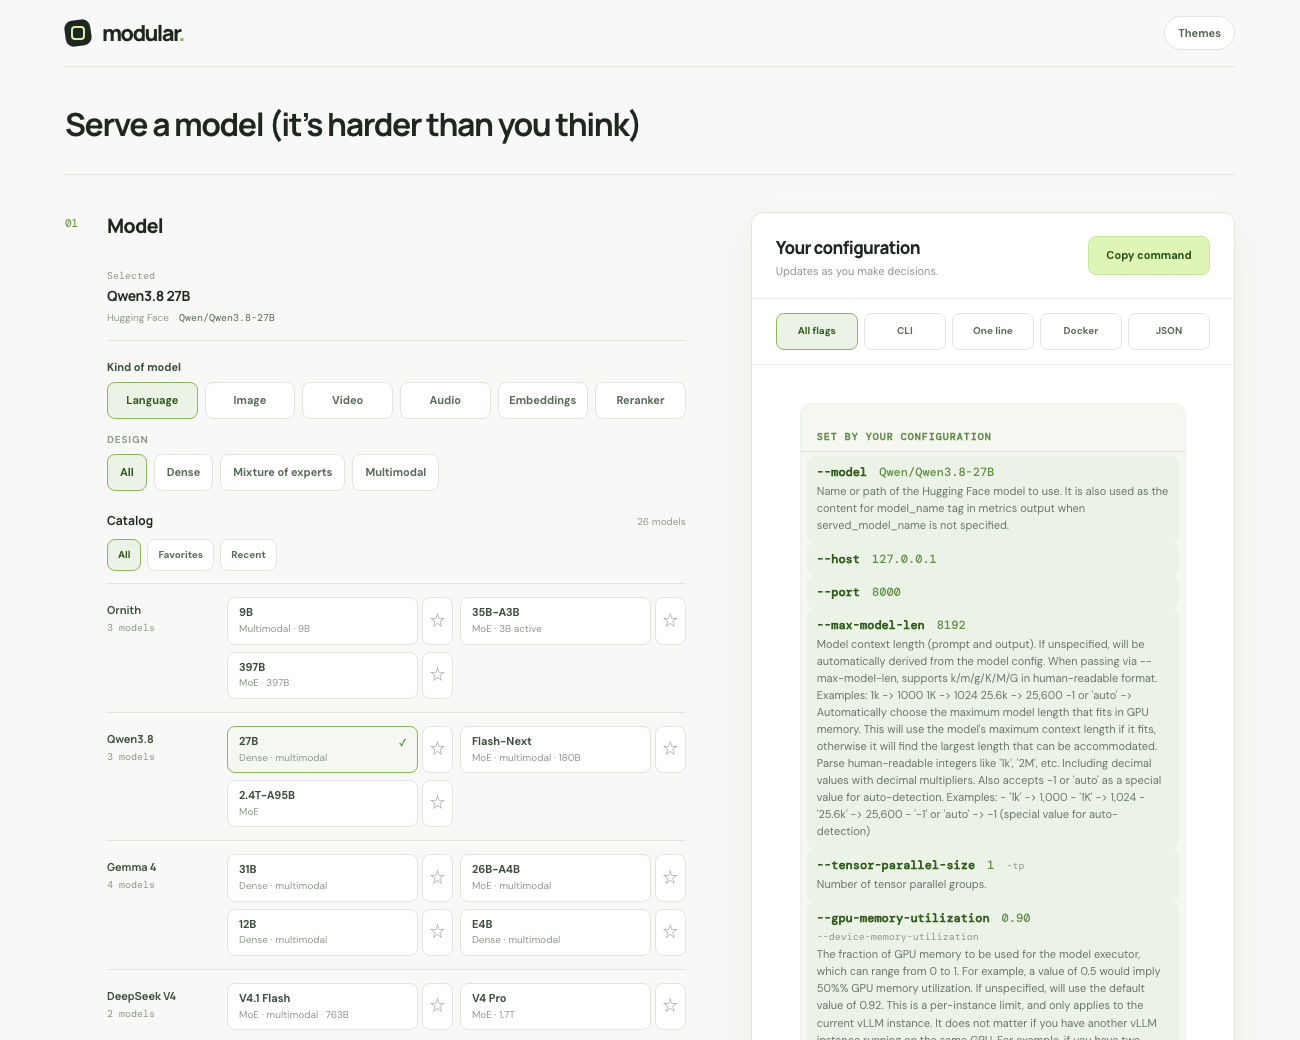
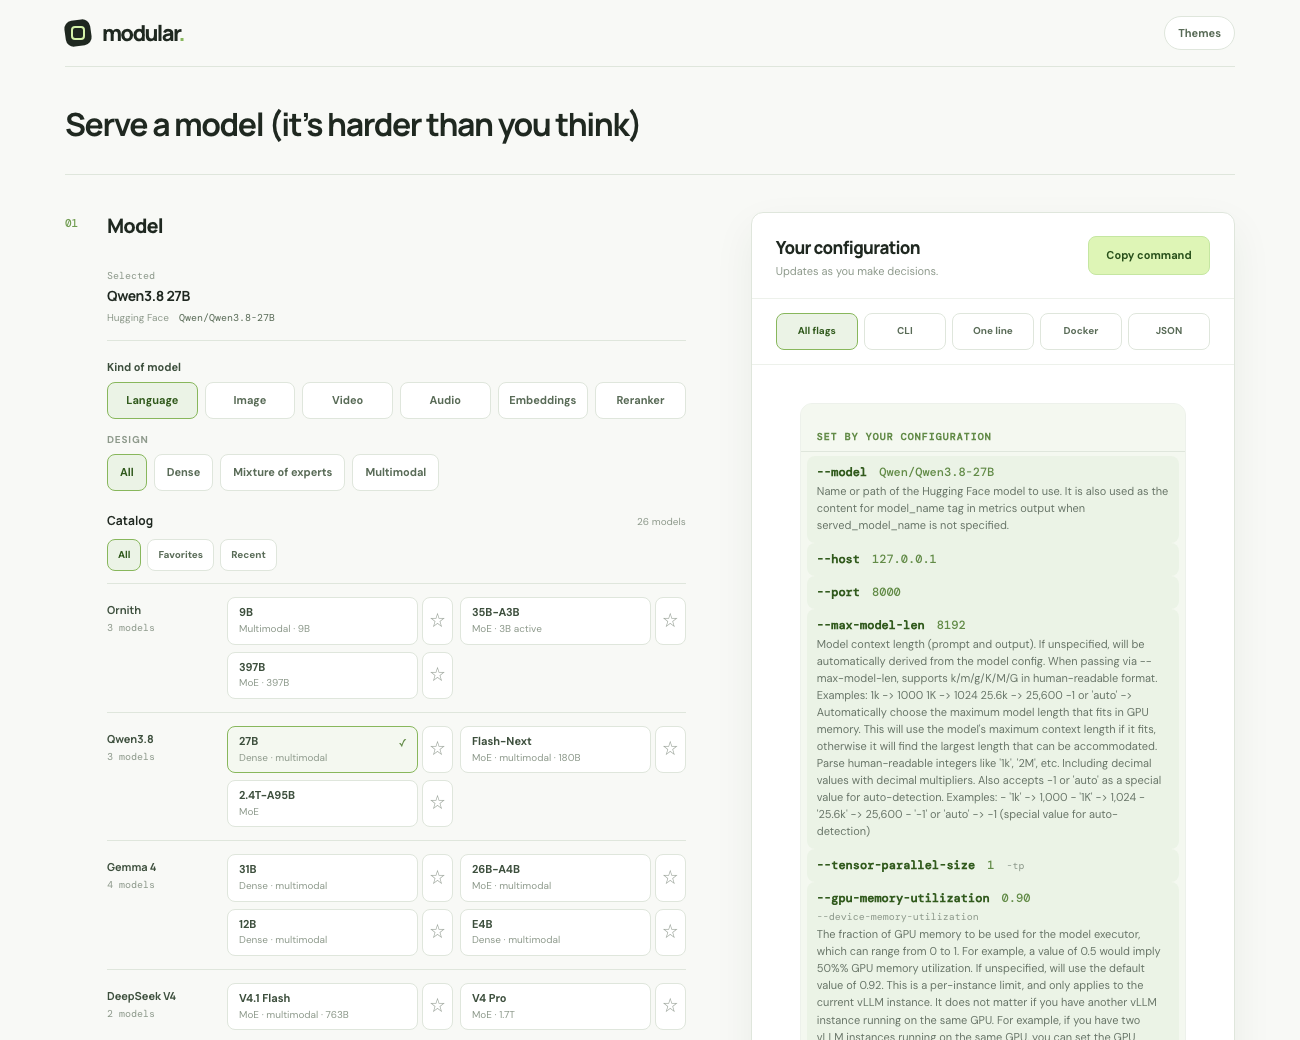
Engine profiles, iteration 8: vLLM, SGLang and TensorRT-LLM commands are generated from data
The hand-written generators are gone. Golden commands recorded from them (250 per
engine) plus 3,000 random configurations each proved the profiles identical first;
the golden file keeps that guarantee. README screenshots refreshed.

Changed region(s): [[0.6154, 0.8308, 0.8923, 1.0]]

diff --git a/index.html b/index.html
@@ -4348,70 +4348,9 @@
         ctx = r.context_tokens,
         tp = r.parallel_devices,
         q = r.quantization;
+      // vLLM, SGLang and TensorRT-LLM are profiles (see js: engine profiles); the rest are built below.
+      if (ENGINE_PROFILES[r.server]) return profileCommand(ENGINE_PROFILES[r.server], c);
       var parts = [];
-      if (r.server === 'vllm') {
-        parts = [
-          'vllm serve ' + m,
-          '--host ' + host,
-          '--port ' + port,
-          '--max-model-len ' + ctx,
-          '--tensor-parallel-size ' + tp,
-          r.kv_cache_gb
-            ? '--kv-cache-memory-bytes ' + r.kv_cache_gb * 1073741824
-            : '--gpu-memory-utilization ' + (r.gpu_memory_percent / 100).toFixed(2),
-        ];
-        if (r.pipeline_stages > 1) parts.push('--pipeline-parallel-size ' + r.pipeline_stages);
-        if (r.cpu_offload_gb) parts.push('--cpu-offload-gb ' + r.cpu_offload_gb);
-        if (r.scheduling.policy === 'priority') parts.push('--scheduling-policy priority');
-        if (r.request_logging) parts.push('--enable-log-requests');
-        if (!c.model.build && q !== 'Native / auto')
-          parts.push('--quantization ' + sh(q.toLowerCase()));
-        if (r.trust_model_code) parts.push('--trust-remote-code');
-        if (r.prefix_cache) parts.push('--enable-prefix-caching');
-        if (c.model.ornith_profile) {
-          parts.push('--served-model-name ' + sh(c.model.served_name));
-          if (r.reasoning_parser) parts.push('--reasoning-parser qwen3');
-          if (r.tool_call_parser)
-            parts.push('--enable-auto-tool-choice', '--tool-call-parser qwen3_xml');
-        }
-        if (r.scheduling.max_num_batched_tokens)
-          parts.push('--max-num-batched-tokens ' + r.scheduling.max_num_batched_tokens);
-        if (r.scheduling.max_num_seqs) parts.push('--max-num-seqs ' + r.scheduling.max_num_seqs);
-        if (r.scheduling.chunked_prefill) parts.push('--enable-chunked-prefill');
-        if (r.scheduling.enforce_eager) parts.push('--enforce-eager');
-        if (r.scheduling.dtype !== 'auto') parts.push('--dtype ' + r.scheduling.dtype);
-        if (r.scheduling.kv_cache_dtype !== 'auto')
-          parts.push('--kv-cache-dtype ' + r.scheduling.kv_cache_dtype);
-      }
-      if (r.server === 'sglang') {
-        parts = [
-          'python -m sglang.launch_server',
-          '--model-path ' + m,
-          '--host ' + host,
-          '--port ' + port,
-          '--context-length ' + ctx,
-          '--tp-size ' + tp,
-          '--mem-fraction-static ' + (r.gpu_memory_percent / 100).toFixed(2),
-        ];
-        if (!c.model.build && q !== 'Native / auto')
-          parts.push('--quantization ' + sh(q.toLowerCase()));
-        if (r.trust_model_code) parts.push('--trust-remote-code');
-        if (!r.prefix_cache) parts.push('--disable-radix-cache');
-        if (c.model.ornith_profile) {
-          parts.push('--served-model-name ' + sh(c.model.served_name));
-          if (r.reasoning_parser) parts.push('--reasoning-parser qwen3');
-          if (r.tool_call_parser) parts.push('--tool-call-parser qwen3_coder');
-        }
-      }
-      if (r.server === 'trtllm') {
-        parts = ['trtllm-serve ' + m, '--host ' + host, '--port ' + port, '--tp_size ' + tp];
-        if (r.pipeline_stages > 1) parts.push('--pp_size ' + r.pipeline_stages);
-        parts.push(
-          '--max_seq_len ' + ctx,
-          '--free_gpu_memory_fraction ' + (r.gpu_memory_percent / 100).toFixed(2),
-        );
-        if (r.trust_model_code) parts.push('--trust_remote_code');
-      }
       if (r.server === 'tgi') {
         parts = [
           'text-generation-launcher',

diff --git a/@fix_plan.md b/@fix_plan.md
@@ -47,8 +47,8 @@ Legend: `[ ]` todo, `[~]` doing, `[x]` done, `[!]` blocked. A task is ready when
 
 ## Trust
 
-- [ ] **#6 Versioned engine profiles**
-  Describe each engine's flags, defaults, accepted values, and conflicts as data per version, then generate the renderer and checks from it.
+- [~] **#6 Versioned engine profiles**
+  First slice done: vLLM, SGLang and TensorRT-LLM are profiles (data) and command() is generated from them, byte-identical to the old hand-written code (250 golden commands each, 3,000 random configurations compared). A test checks every profile flag exists in that engine's documentation. Still to do: TGI, llama.cpp, Ollama, MLX LM as profiles; the flag map and the checks generated from the same data; the version dimension.
   Depends on: #9
   Blocks: #7, #8, #13, #22
 - [ ] **#7 Engine version selector**
@@ -113,7 +113,6 @@ Legend: `[ ]` todo, `[~]` doing, `[x]` done, `[!]` blocked. A task is ready when
 
 ## Ready now (highest priority first)
 
-1. #6 Versioned engine profiles
 1. #11 Input validation
 1. #12 More command forms
 1. #14 Share and import
